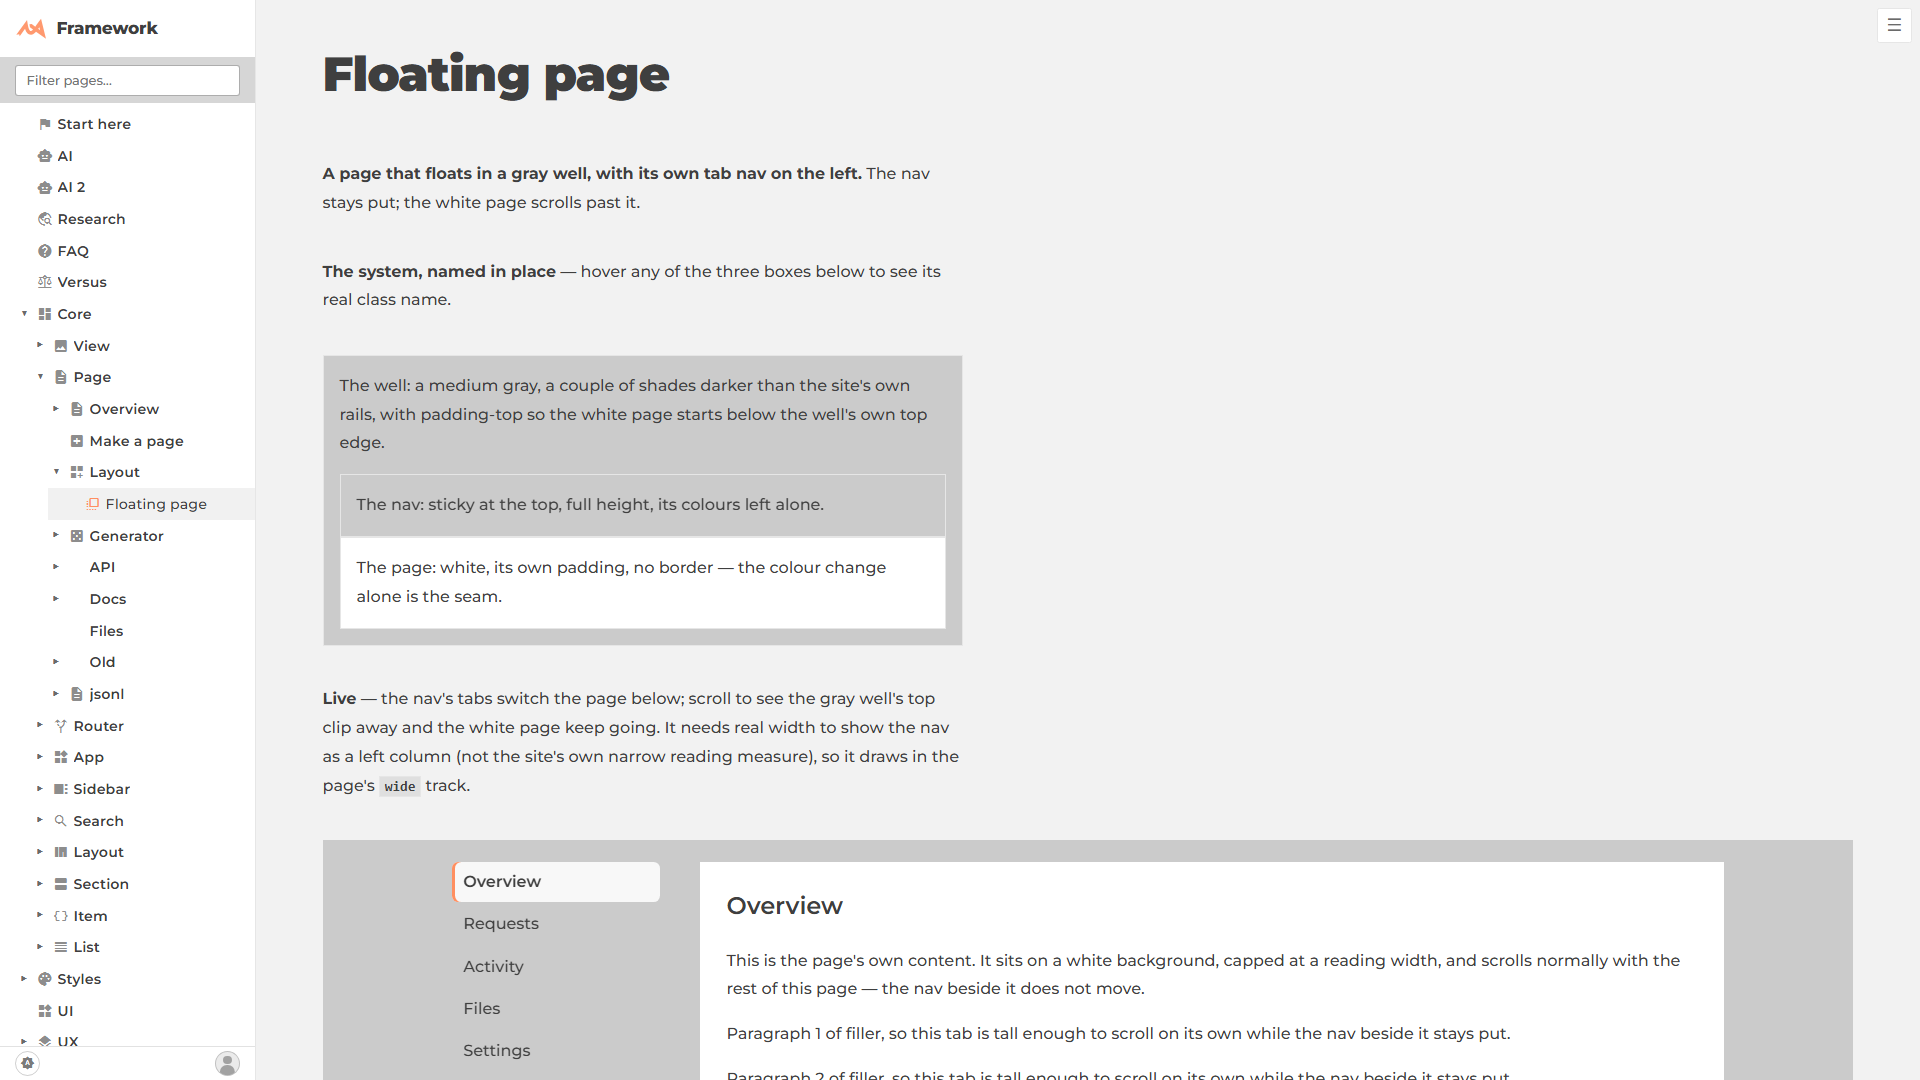
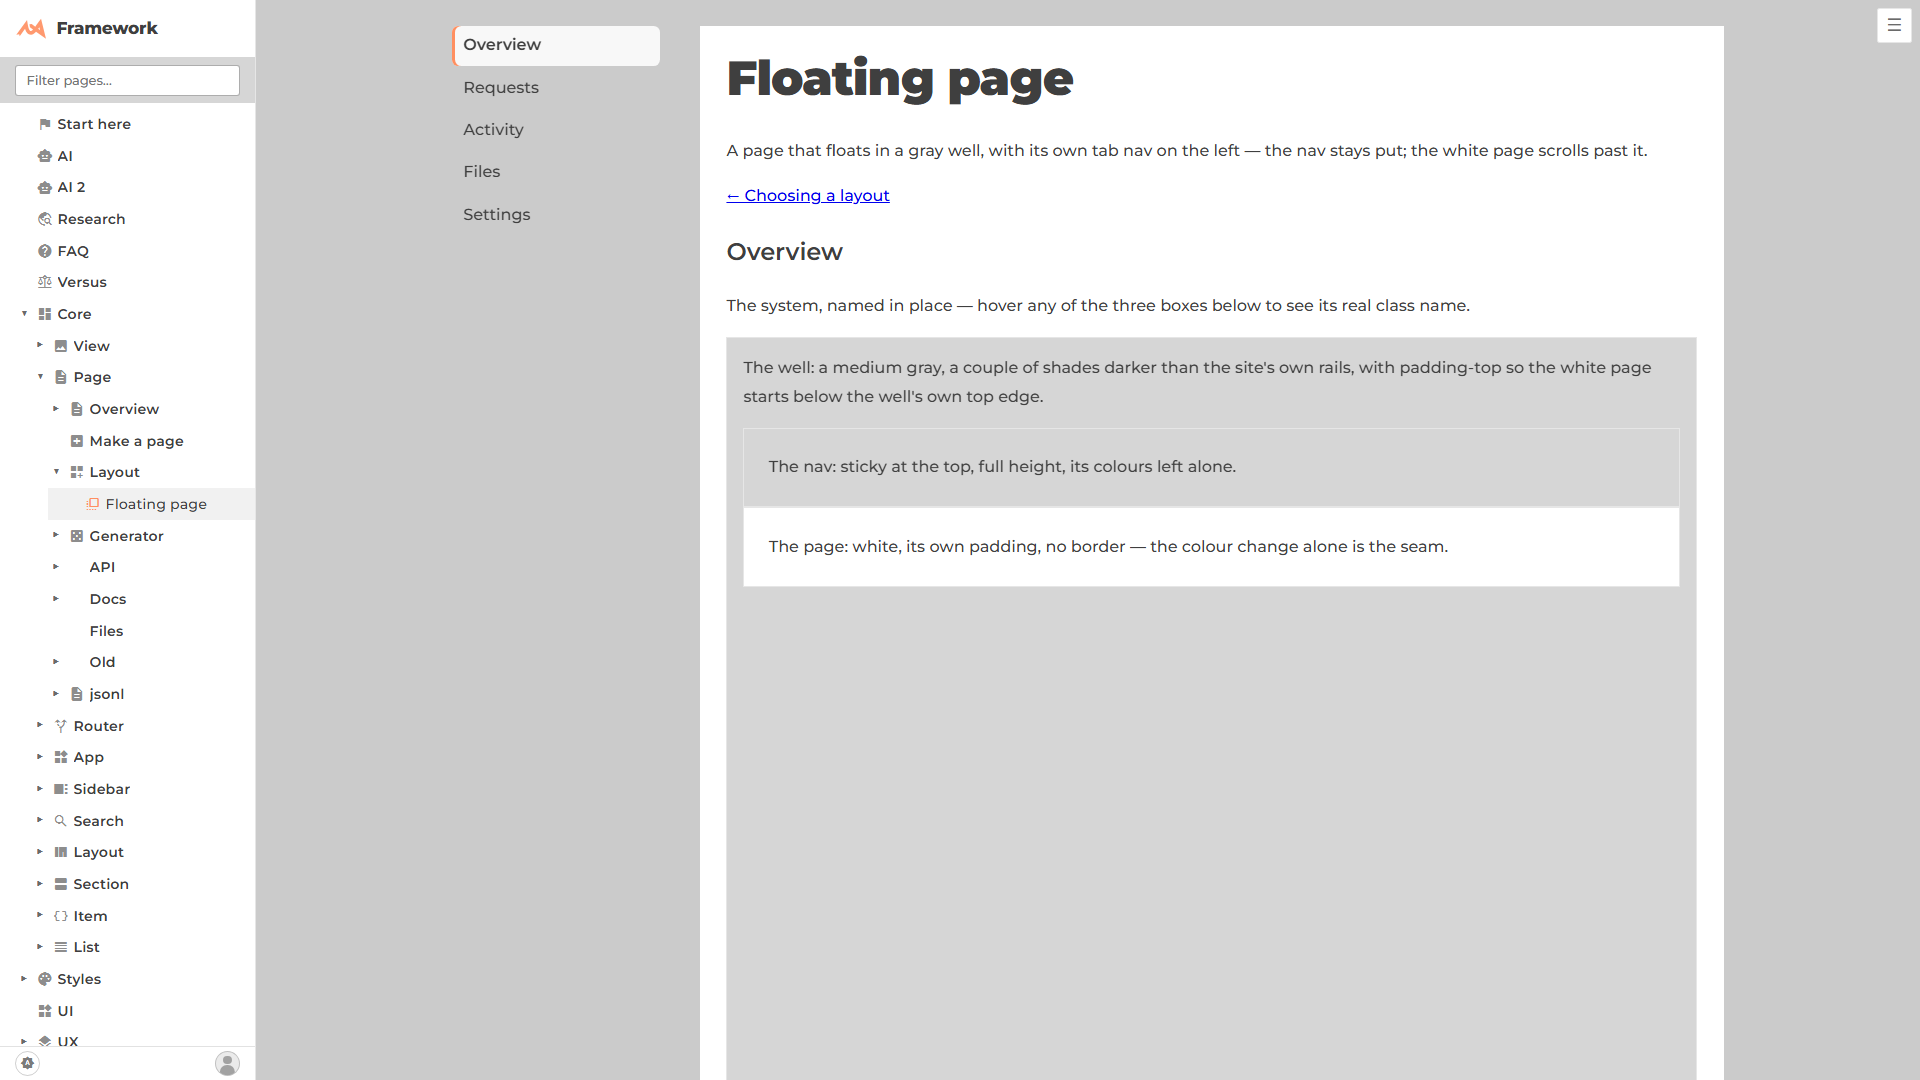
Floating page: make the demo BE a floating page, full viewport
The well now fills the whole region beside the real site rail at full
viewport height (min-height: 100dvh + one padding, so a short tab still
has room to scroll past its own top edge) — a percentage height couldn't
reach through the page grid's auto-sized row, so it's a custom property
(--floating-min-height) instead, overridable for a smaller region like
AI 2's workspace. render() is overridden (no framework H1 above the
well); the page's own title, lead sentence and tab content live inside
the white page. The system-design diagram moved into the Overview tab;
the other tabs got real sentences about when to use this layout instead
of "Paragraph N of filler". Re-shot all four floating-*.png at the fixed
layout, plus ai2-system-design-floating.png (AI 2's System design card,
opened in the same floating page via ?view=workspace) and its new
walkthrough step.

diff --git a/public/framework/core/Page/layout/floating/page.js b/public/framework/core/Page/layout/floating/page.js
@@ -1,26 +1,66 @@
-import { Page, md, p, h3, div } from "/app.js";
+import { Page, div, h1, h3, p, a } from "/app.js";
 import { floating } from "./floating.js";
 import { section } from "/framework/ui/section/section.js";
 
 /**
  * The Floating page, live — core/Page's "Floating page" word. `floating.js`'s own header
- * comment has the full spec; this page shows it working, then names its three parts with
- * `ui/section` so hovering each one prints its real class name.
+ * comment has the full spec. This page IS one: no framework title or prose sits above the
+ * well — the well fills the whole region beside the site's real left rail, and the page's
+ * own title, lead sentence and tab content all live INSIDE the white page, the way any real
+ * user of this layout would put them there. `render()` is overridden (skipping the base
+ * class's automatic `<h1>`) — the same move `core/Sidebar/variants/a–d` make — but the
+ * default `container()` is kept, so this page nests normally under the real site tree and
+ * the real left rail stays exactly where it always is.
  */
 const TABS = [
-	{ id: "overview", label: "Overview", text: "This is the page's own content. It sits on a white background, capped at a reading width, and scrolls normally with the rest of this page — the nav beside it does not move." },
-	{ id: "requests", label: "Requests", text: "A second tab, so there is something to switch to. Clicking a link on the left redraws only this white area; the nav itself is untouched, which is why an open nav item never closes when you flip pages." },
-	{ id: "activity", label: "Activity", text: "A third tab, with enough of its own paragraphs to make the white page taller than the window, so you can see it scroll independently of the nav beside it." },
-	{ id: "files", label: "Files", text: "A fourth tab. Nothing about the layout changes tab to tab — only the content this page draws." },
-	{ id: "settings", label: "Settings", text: "The fifth and last tab." },
+	{ id: "overview", label: "Overview" },
+	{ id: "requests", label: "Requests" },
+	{ id: "activity", label: "Activity" },
+	{ id: "files", label: "Files" },
+	{ id: "settings", label: "Settings" },
 ];
 
+// One real sentence or two per tab — what filler text stood in for before. Every tab but
+// Overview (which shows the system diagram instead) gets a different angle on the same
+// question: when is this layout the right call.
+const TAB_COPY = {
+	requests: [
+		"Reach for this layout when a region is much wider than one page should ever be — a card's own detail area on a 3440px screen, for instance, where a flush single column would read as a sentence lost in an empty hall.",
+		"The nav and the page travel together as one unit, so switching pages never means hunting for navigation that scrolled out of view.",
+	],
+	activity: [
+		"The nav is deliberately narrow and the page is deliberately capped — the point is not to fill the width with text, it's to keep the reading column honest while the gray well soaks up the leftover room.",
+		"Below the container query's breakpoint (44em) the nav drops to a row of links above the page and the well's padding shrinks to match — the same component, a phone-sized version of itself.",
+	],
+	files: [
+		"The page and the nav scroll independently: the nav stays pinned near the top so you always know which tab you're on, while the page itself can be as long as its content needs.",
+		"Nothing about the gray well is decorative filler — it's the visual cue that this page has its own navigation, separate from the site's.",
+	],
+	settings: [
+		"Two knobs size the whole thing from any ancestor: `--floating-nav` (the nav's width) and `--floating-measure` (the page's reading cap) — no new CSS class, just a custom property.",
+		"Everything else — the well's gray, the padding that scales at 3440, the sticky nav — comes from the framework's own tokens, so a caller never invents a number.",
+	],
+};
+
 function tab_body(id){
-	const tab = TABS.find(t => t.id === id) ?? TABS[0];
-	h3(tab.label);
-	p(tab.text);
-	// Padding so the page is clearly taller than one screen — proves the "scrolls on its own".
-	for (let i = 0; i < 6; i++) p(`Paragraph ${i + 1} of filler, so this tab is tall enough to scroll on its own while the nav beside it stays put.`);
+	if (id === "overview") return overview_body();
+	h3(TABS.find(t => t.id === id)?.label ?? id);
+	TAB_COPY[id]?.forEach(sentence => p(sentence));
+}
+
+/** Overview tab: the system, named in place — hover a box to see its real class name. */
+function overview_body(){
+	h3("Overview");
+	p("The system, named in place — hover any of the three boxes below to see its real class name.");
+	section("floating-well", () => {
+		p("The well: a medium gray, a couple of shades darker than the site's own rails, with padding-top so the white page starts below the well's own top edge.");
+		section("floating-nav", () => {
+			p("The nav: sticky at the top, full height, its colours left alone.");
+		});
+		section("floating-page", () => {
+			p("The page: white, its own padding, no border — the colour change alone is the seam.");
+		});
+	});
 }
 
 export default new Page({
@@ -29,29 +69,26 @@ export default new Page({
 	description: "A page that floats in a gray well, with its own tab nav on the left.",
 	icon: "flip_to_front",
 
-	content(){
-		md("**A page that floats in a gray well, with its own tab nav on the left.** The nav stays put; the white page scrolls past it.");
-
-		md("**The system, named in place** — hover any of the three boxes below to see its real class name.");
-		section("floating-well", () => {
-			p("The well: a medium gray, a couple of shades darker than the site's own rails, with padding-top so the white page starts below the well's own top edge.");
-			section("floating-nav", () => {
-				p("The nav: sticky at the top, full height, its colours left alone.");
-			});
-			section("floating-page", () => {
-				p("The page: white, its own padding, no border — the colour change alone is the seam.");
-			});
+	// The default nesting — inside the real site tree, beside the real left rail. Only
+	// render() is custom, to skip the base class's own `<h1>` above the well.
+	render(){
+		return this.view ??= div.c("page flow full page--floating", () => {
+			div.c("bleed", () => { this.floating_page(); });
 		});
+	},
 
-		md("**Live** — the nav's tabs switch the page below; scroll to see the gray well's top clip away and the white page keep going. It needs real width to show the nav as a left column (not the site's own narrow reading measure), so it draws in the page's `wide` track.");
+	floating_page(){
+		const page_body = (id) => {
+			h1("Floating page");
+			p("A page that floats in a gray well, with its own tab nav on the left — the nav stays put; the white page scrolls past it.");
+			a("← Choosing a layout").href("/framework/core/Page/layout/");
+			tab_body(id);
+		};
 
 		let active = TABS[0].id;
-		let f;
-		div.c("wide", () => {
-			f = floating(null, {
-				nav: TABS.map(t => ({ label: t.label, href: `#${t.id}`, active: t.id === active })),
-				content(){ tab_body(active); },
-			});
+		const f = floating(null, {
+			nav: TABS.map(t => ({ label: t.label, href: `#${t.id}`, active: t.id === active })),
+			content(){ page_body(active); },
 		});
 
 		f.$nav.el.addEventListener("click", (e) => {
@@ -60,9 +97,7 @@ export default new Page({
 			e.preventDefault();
 			active = $a.getAttribute("href").slice(1);
 			f.nav(TABS.map(t => ({ label: t.label, href: `#${t.id}`, active: t.id === active })));
-			f.$page.empty(() => { tab_body(active); });
+			f.$page.empty(() => { page_body(active); });
 		});
-
-		md("Back to [Choosing a layout](/framework/core/Page/layout/).");
 	},
 });

diff --git a/public/framework/core/Page/layout/floating/floating.js b/public/framework/core/Page/layout/floating/floating.js
@@ -105,6 +105,20 @@ Floating.css = `
 		background: var(--fill-a16);
 		padding: var(--pad);
 		padding-top: var(--pad);
+		/* Fills the whole region at rest, even when the current tab is short. NOT a
+		   percentage: this box's ancestor is a CSS-grid row sized "auto" (Page.css sets
+		   grid-template-columns for its main/wide/bleed tracks, never grid-template-rows),
+		   so a row holding only this box sizes to ITS content and a percentage height on
+		   this box has nothing definite to be a percentage OF — both resolve to each
+		   other and the well ends up content-height, not full-bleed (found live, 2026-09-29:
+		   a 656px-tall well in a 1080px-tall page). 100dvh sidesteps that: a caller whose
+		   region is not the full viewport (AI 2's workspace, a smaller panel) overrides it
+		   by declaring --floating-min-height on any ancestor.
+		   The extra + var(--pad) is on purpose too: without it, a short tab's well is
+		   EXACTLY one screen tall and there is nothing left to scroll, so the "the top
+		   edge clips away as you scroll" behaviour would have nothing to demonstrate it
+		   on. One padding's worth of headroom guarantees a short tab still scrolls. */
+		min-height: calc(var(--floating-min-height, 100dvh) + var(--pad));
 	}
 	.floating {
 		container: floating / inline-size;

diff --git a/public/framework/core/Sidebar/variants/walkthrough/page.js b/public/framework/core/Sidebar/variants/walkthrough/page.js
@@ -25,6 +25,8 @@ const STEPS = [
 		say: "Either the app swaps one rail as pages change (E), or every page keeps its own rail and an `active` class hides the rest (F)." },
 	{ title: "The floating page", pic: "floating-1920-top.png", open: "/framework/core/Page/layout/floating/",
 		say: "A different kind of page, not a sidebar variant: its own inner left nav, in a gray well, beside a white page that scrolls past it." },
+	{ title: "AI 2 uses the same layout", pic: "ai2-system-design-floating.png", open: "/framework/ai2/2026/09/24/system-design/?view=workspace",
+		say: "AI 2 uses the same layout: here is System design in it. The card's own tabs and sub-cards become the left nav; the card's content becomes the white page beside it." },
 	{ title: "Which one?", open: "/framework/core/Sidebar/variants/",
 		say: "None of this decides anything by itself — the choice among A–F lives on the task's card, as a Decision, for the owner." },
 ];
